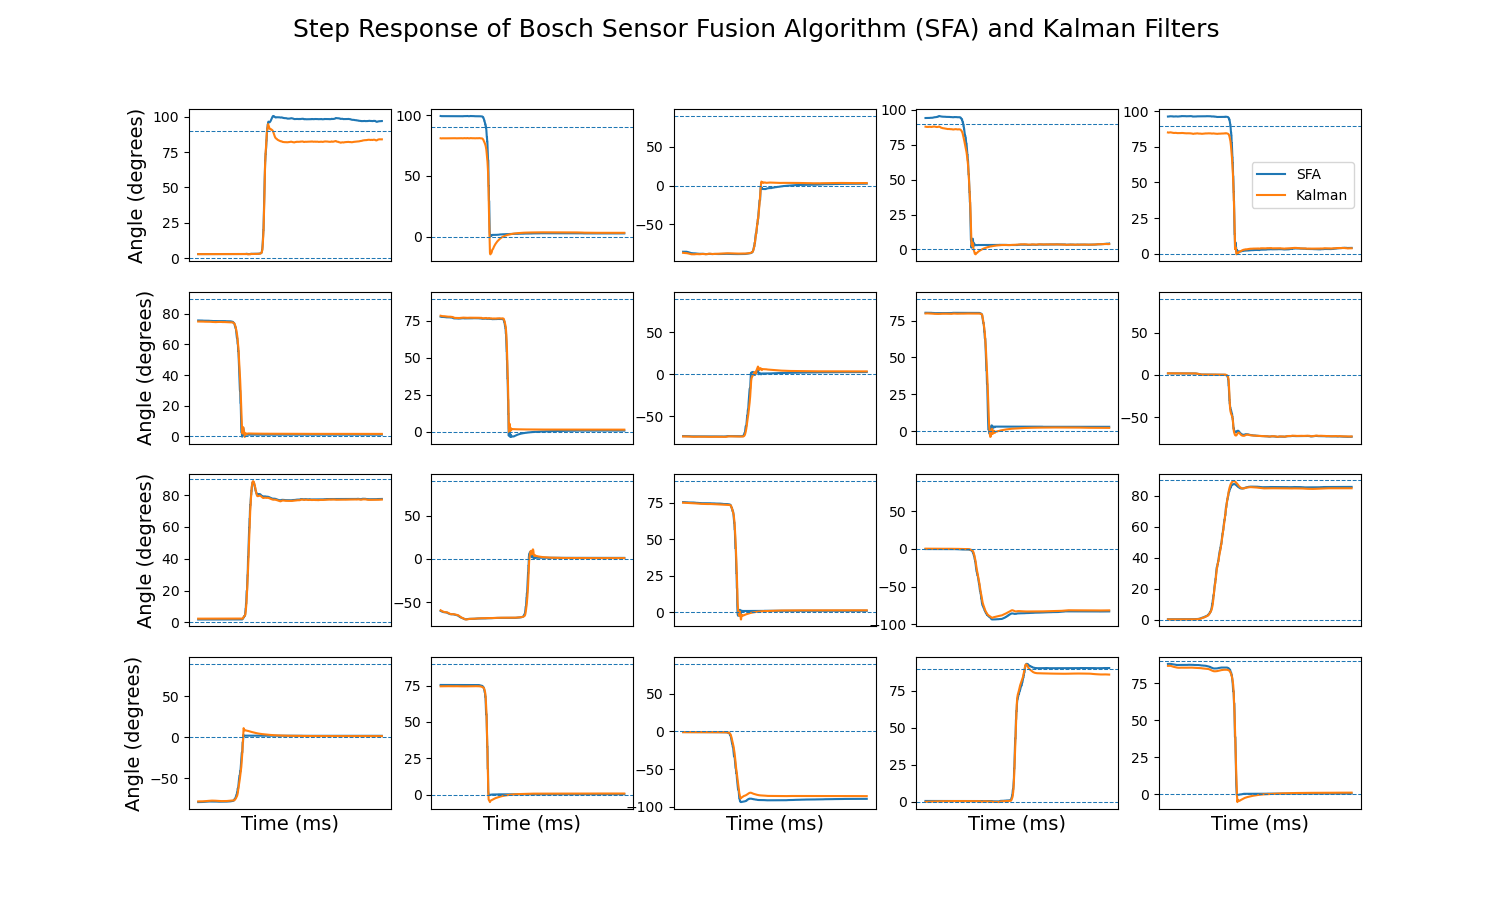
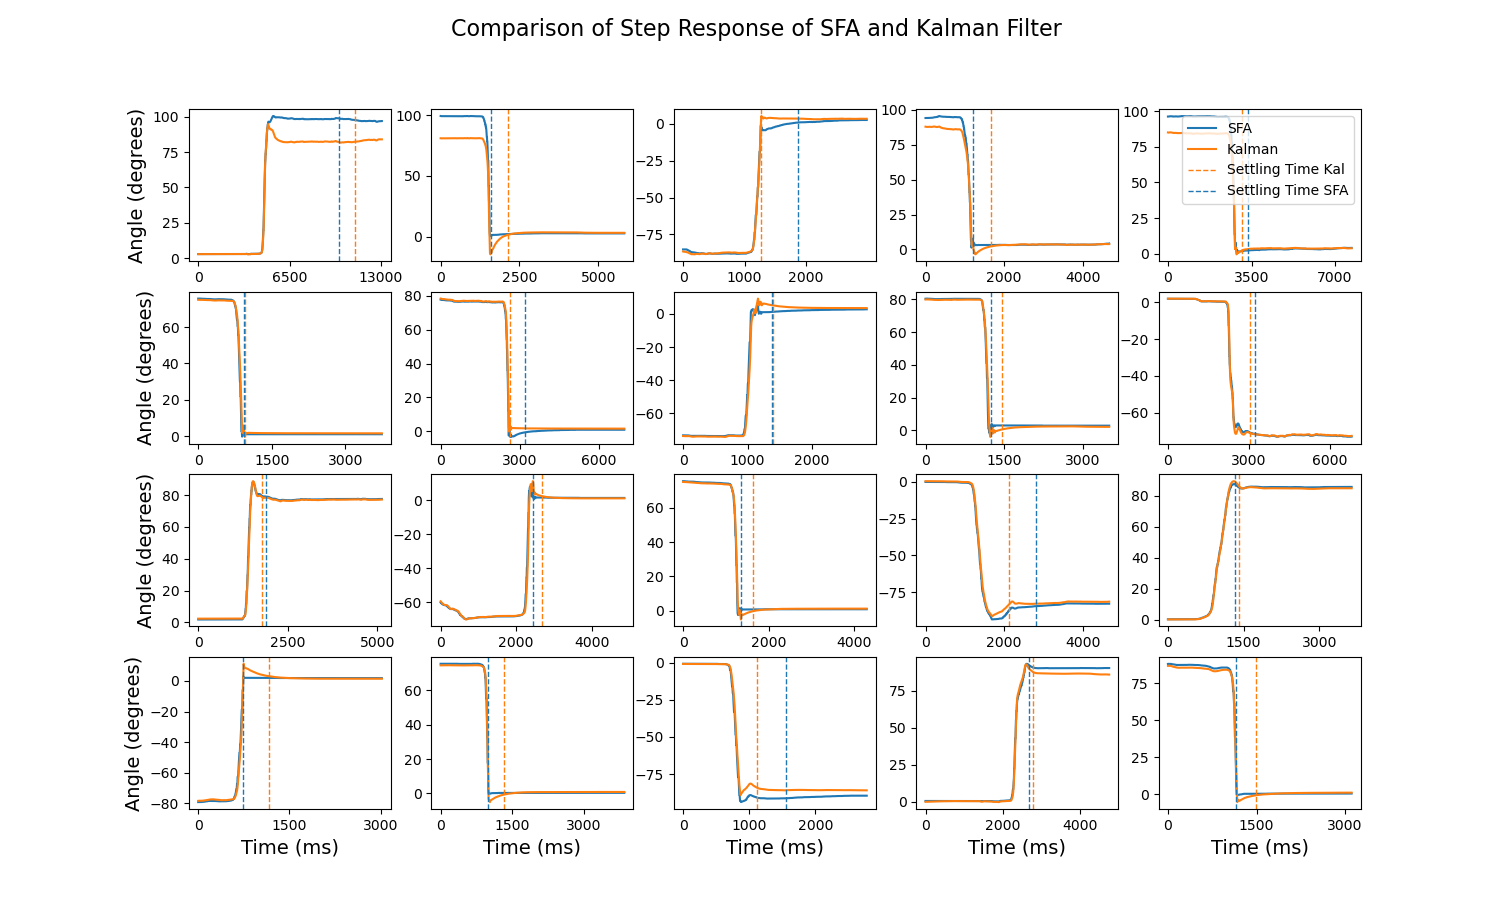
updating the filter testing 90 deg plots

diff --git a/Python/filter test/filter testing 90/plot_bno_data.py b/Python/filter test/filter testing 90/plot_bno_data.py
@@ -1,7 +1,8 @@
 import serial
-import time
 import csv
 from matplotlib import pyplot as plt
+import os
+import numpy as np
 import pandas as pd
 
 # Defining Path to CSV File, Com Port and Baud Rate #
@@ -40,60 +41,168 @@ def read_from_serial():
                         )
                 sensor_writer.writerow([line[0],line[1],line[2],line[3]])
 
-# Plotting Sensor Value Readings #
-def plot_from_csv(path=PATH):
+# Plots Sensor Value Readings #
+def plot_from_csv(path,settle_time_kal, settle_time_sfa, step_time):
     # Reading CSV into pandas DataFrame #
     df = pd.read_csv(path)
 
     # Printing Statistics of DataFrame #
-    print(df.describe())
+    # print(df.describe())
 
     # Plotting Angle vs Time #
-    df['Relative time'] = df['Time'] - df['Time'][0]
-    plt.plot(df['Relative time'],df['SFA'])
-    plt.plot(df['Relative time'],df['Kalman'])
-    # plt.axhline(y=90,linestyle='--',linewidth=0.75)
-    # plt.axhline(y=0,linestyle='--', color='k',linewidth=0.75)
+    df['Relative Time'] = df['Time'] - df['Time'][0]
+    plt.plot(df['Relative Time'],df['SFA'], label='SFA')
+    plt.plot(df['Relative Time'],df['Kalman'], label='Kalman')
 
+    plt.axvline(x=settle_time_kal+step_time, color='tab:orange', linestyle='--', linewidth=1,label='Settling Time Kal')
+    plt.axvline(x=settle_time_sfa+step_time, color='tab:blue', linestyle='--', linewidth=1,label='Settling Time SFA')
+    # plt.axvline(x=step_time, color='black', linestyle='--', linewidth=1, label='Step time')
+
+    xticks = [i for i in range(0,df['Relative Time'].iloc[-1],500) if np.abs(i-settle_time_kal-step_time) > 400 and np.abs(i-settle_time_sfa-step_time) > 400]
+    if settle_time_kal != np.inf:
+        xticks.append(settle_time_kal+step_time)
+    if settle_time_sfa != np.inf:
+        xticks.append(settle_time_sfa+step_time)
+    xticks.append(0)
+    plt.xticks(xticks)
+
+# Plots three chosen Sensor value readings individually
 def chosen_plots():
     loop_path = './Python/filter test/filter testing 90/SensorData/BNO_Test_Step_'
-    plot_nums = [7,13,17]
-    plot_max = [77, 74, 75]
-    plot_end_time = [6978, 4292, 3840]
-    plot_step_time = [2540, 1243, 973]
-    angle_offsets = [1.25, 1.05, 0.58]
-    for i in range(3):
-        temp_path = loop_path + str(plot_nums[i]) + '.csv'
-        plot_from_csv(temp_path)
-        plt.hlines(y=plot_max[i],xmin=0,xmax=plot_step_time[i], color='tab:gray', linestyle='--',linewidth=1)
-        plt.vlines(x=plot_step_time[i],ymin=angle_offsets[i],ymax=plot_max[i], color='tab:gray', linestyle='--',linewidth=1)
-        plt.hlines(y=angle_offsets[i],xmin=plot_step_time[i],xmax=plot_end_time[i], color='tab:gray', linestyle='--',linewidth=1)
-        plt.legend(['SFA', 'Kalman', 'Step Input'])
+    for i in [7,13,17]:
+        path = loop_path + str(i) + '.csv'
+        settle_time_kal,_,settle_time_sfa,_,step_time,_,_ = find_overshoot(path)
+        plot_from_csv(path, settle_time_kal, settle_time_sfa, step_time)
         plt.xlabel('Time (ms)', fontsize=14)
         plt.ylabel('Angle (degrees)', fontsize=14)
         plt.title('Comparison of Step Response of SFA and Kalman Filter', fontsize=14)
+        plt.legend(fontsize=14)
+        manager = plt.get_current_fig_manager()
+        manager.full_screen_toggle()
         plt.show()
 
+# Finds overshoot and settling time for the Kalman filter and SFA
+def find_overshoot(path):
+    # First Task: Find Range of Motion, First Value in DataFrame, Subtract From Last Value In DataFrame
+    # Find min value of dataframe, compare with final settled value, difference is overshoot #
+    # Next Find Time Point of Start of Step, Then find point where it reaches with 2% of range within final value #
+    df = pd.read_csv(path)
+    df['Relative Time'] = df['Time'] - df['Time'].iloc[0]
+
+    max_angle_sfa = df['SFA'].iloc[0]
+    max_angle_kal = df['Kalman'].iloc[0]
+    settle_angle_sfa = df['SFA'].iloc[-1]
+    settle_angle_kal = df['Kalman'].iloc[-1]
+
+    angle_range_sfa = abs(max_angle_sfa - settle_angle_sfa)
+    angle_range_kal = abs(max_angle_kal - settle_angle_kal)
+
+    print(f'{max_angle_sfa=}, {settle_angle_sfa=}, {angle_range_sfa=}')
+    ## Finding Overshot of SFA and Kalman ##
+    if max_angle_sfa - settle_angle_sfa > 0:
+        os_per_sfa = 100*np.abs(df['SFA'].min() - settle_angle_sfa)/angle_range_sfa
+        os_per_kal = 100*np.abs(df['Kalman'].min() - settle_angle_kal)/angle_range_kal
+    else:
+        os_per_sfa = 100*np.abs(df['SFA'].max() - settle_angle_sfa)/angle_range_sfa
+        os_per_kal = 100*np.abs(df['Kalman'].max() - settle_angle_kal)/angle_range_kal 
+
+    ## Finding Settling Time of SFA and Kalman ##
+    settle_time_sfa = np.inf
+    settle_time_kal = np.inf
+    step_time = np.inf
+
+    for _,row in df.iterrows():
+        subset = df[df['Relative Time']>row['Relative Time']]
+        
+        # print(f"{subset['SFA'].min()=},{subset['Kalman'].min()=},{settle_angle_sfa=},{settle_angle_kal=},{0.1*angle_range_sfa=},{0.1*angle_range_kal=}")
+        
+        if step_time == np.inf and abs(max_angle_sfa-row['SFA']) > 40:
+            step_time = row['Relative Time']
+        
+        sfa_angle_diff_max = np.abs(settle_angle_sfa - subset['SFA'].max())
+        sfa_angle_diff_min = np.abs(settle_angle_sfa - subset['SFA'].min())
+        
+        if settle_time_sfa == np.inf and sfa_angle_diff_max < 0.02*angle_range_sfa and sfa_angle_diff_min < 0.02*angle_range_sfa:
+            settle_time_sfa = row['Relative Time'] - step_time
+        
+        if settle_time_kal == np.inf and np.abs(settle_angle_kal - subset['Kalman'].min()) < 0.02*angle_range_kal and np.abs(settle_angle_kal - subset['Kalman'].max()) < 0.02*angle_range_kal:
+            settle_time_kal = row['Relative Time'] - step_time
+    
+    # print(f'{settle_time_kal=}, {settle_time_sfa=}')
+    # print(f'{os_per_kal=}, {os_per_sfa=}')
+    return settle_time_kal,os_per_kal,settle_time_sfa,os_per_sfa, step_time, max_angle_sfa, settle_angle_sfa
+
+# Scatterplot of settling time and overshoot for all sensor value reading instances
+def plot_comparison(DATA_PATH):
+    files = [f for f in os.listdir(DATA_PATH) if os.path.isfile(os.path.join(DATA_PATH,f))]
+    print(files)
+    settle_times_kal = []
+    os_percs_kal = []
+    settle_times_sfa = []
+    os_percs_sfa = []
+    
+    for file in files:
+        path = os.path.join(DATA_PATH,file)
+        settle_time_kal,os_per_kal,settle_time_sfa,os_per_sfa,_,_,_ = find_overshoot(path)
+        settle_times_kal.append(settle_time_kal)
+        os_percs_kal.append(os_per_kal)
+        settle_times_sfa.append(settle_time_sfa)
+        os_percs_sfa.append(os_per_sfa)
+
+    plt.scatter(
+        settle_times_sfa,os_percs_sfa,
+        color='tab:purple',
+        marker='o',
+        s=80,
+        label='SFA'
+    )
+    plt.scatter(
+        settle_times_kal,os_percs_kal,
+        color='tab:green',
+        marker='x',
+        linewidths=3,
+        s=80,
+        label='Kalman Filter'
+    )
+    plt.xlabel('Settling Time (ms)',fontsize=14)
+    plt.ylabel('Max Overshoot (%)',fontsize=14)
+    plt.xscale(value='log')
+    plt.title("Settling time and Overshoot for Kalman filter and SFA", fontsize=16)
+    plt.legend(fontsize=14)
+    manager=plt.get_current_fig_manager()
+    manager.full_screen_toggle()
+    plt.grid()
+    plt.show()
+    # print(f'{np.mean(settle_times_kal)=}')
+    # print(f'{np.mean(settle_times_sfa)=}')
+    # print(f'{np.mean(os_percs_kal)=}')
+    # print(f'{np.mean(os_percs_sfa)=}')
+
+# Plots all Sensor value readings in a combined plot
 def all_plots():
     loop_path = './Python/filter test/filter testing 90/SensorData/BNO_Test_Step_'
     for i in range(1,21):
         plt.subplot(4,5,i)
-        temp_path = loop_path + str(i) + '.csv'
-        print(temp_path)
-        plot_from_csv(temp_path)
+        path = loop_path + str(i) + '.csv'
+        settle_time_kal,_,settle_time_sfa,_,step_time,_,_ = find_overshoot(path)
+        plot_from_csv(path,settle_time_kal, settle_time_sfa, step_time)
         if i % 5 == 1:
             plt.ylabel('Angle (degrees)', fontsize=14)
         if i > 15:
             plt.xlabel('Time (ms)', fontsize=14)
         if i == 5:
-            plt.legend(['SFA', 'Kalman'])
+            plt.legend(fontsize=10,loc='upper right')
 
-    plt.suptitle('Step Response of Bosch Sensor Fusion Algorithm and Kalman Filters',fontsize=18)
+    plt.suptitle('Comparison of Step Response of SFA and Kalman Filter', fontsize=16)    
+    manager=plt.get_current_fig_manager()
+    manager.full_screen_toggle()
     plt.show()
 
 if __name__ == '__main__':
     # read_from_serial()
-    # chosen_plots()
-    all_plots()
-    # plot_from_csv(PATH)
-    # plt.show()
+
+    chosen_plots()
+    # all_plots()
+
+    # DATA_PATH = './Python/filter test/filter testing 90/SensorData'
+    # plot_comparison(DATA_PATH)

diff --git a/Python/filter test/filter testing small angle/plot_bno_data.py b/Python/filter test/filter testing small angle/plot_bno_data.py
@@ -63,7 +63,7 @@ def plot_from_csv(path,settle_time_kal, settle_time_sfa, step_time):
     # plt.axvline(x=step_time, color='black', linestyle='--', linewidth=1, label='Step time')
 
     xticks = [i for i in range(0,df['Relative Time'].iloc[-1],200) if np.abs(i-settle_time_kal-step_time) > 100 and np.abs(i-settle_time_sfa-step_time) > 100]
-    xticks.extend([settle_time_kal+step_time, settle_time_sfa+step_time])
+    xticks.extend([0,settle_time_kal+step_time, settle_time_sfa+step_time])
     plt.xticks(xticks)
 
 # Plots all the Sensor reading plots individually
@@ -187,7 +187,7 @@ def all_plots():
         if i == 5:
             plt.legend(fontsize=10, loc='upper right')
 
-    plt.suptitle('Comparison of Step Response of SFA and Kalman Filter', fontsize=16)
+    plt.suptitle('Comparison of Step Response of SFA and Kalman Filter', fontsize=16)    
     manager = plt.get_current_fig_manager()
     manager.full_screen_toggle()
     plt.show()
